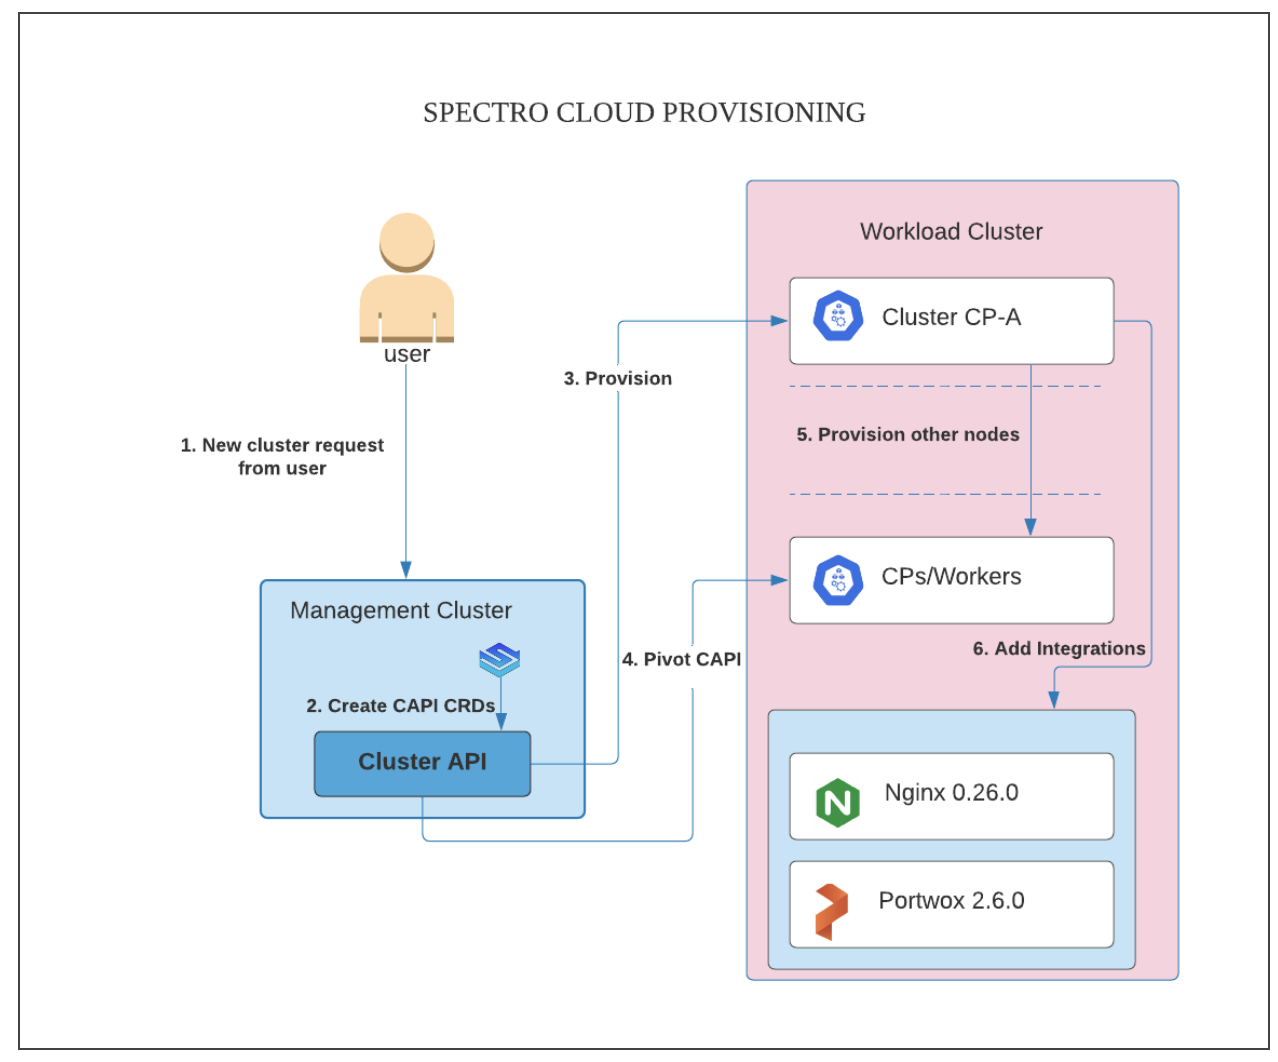
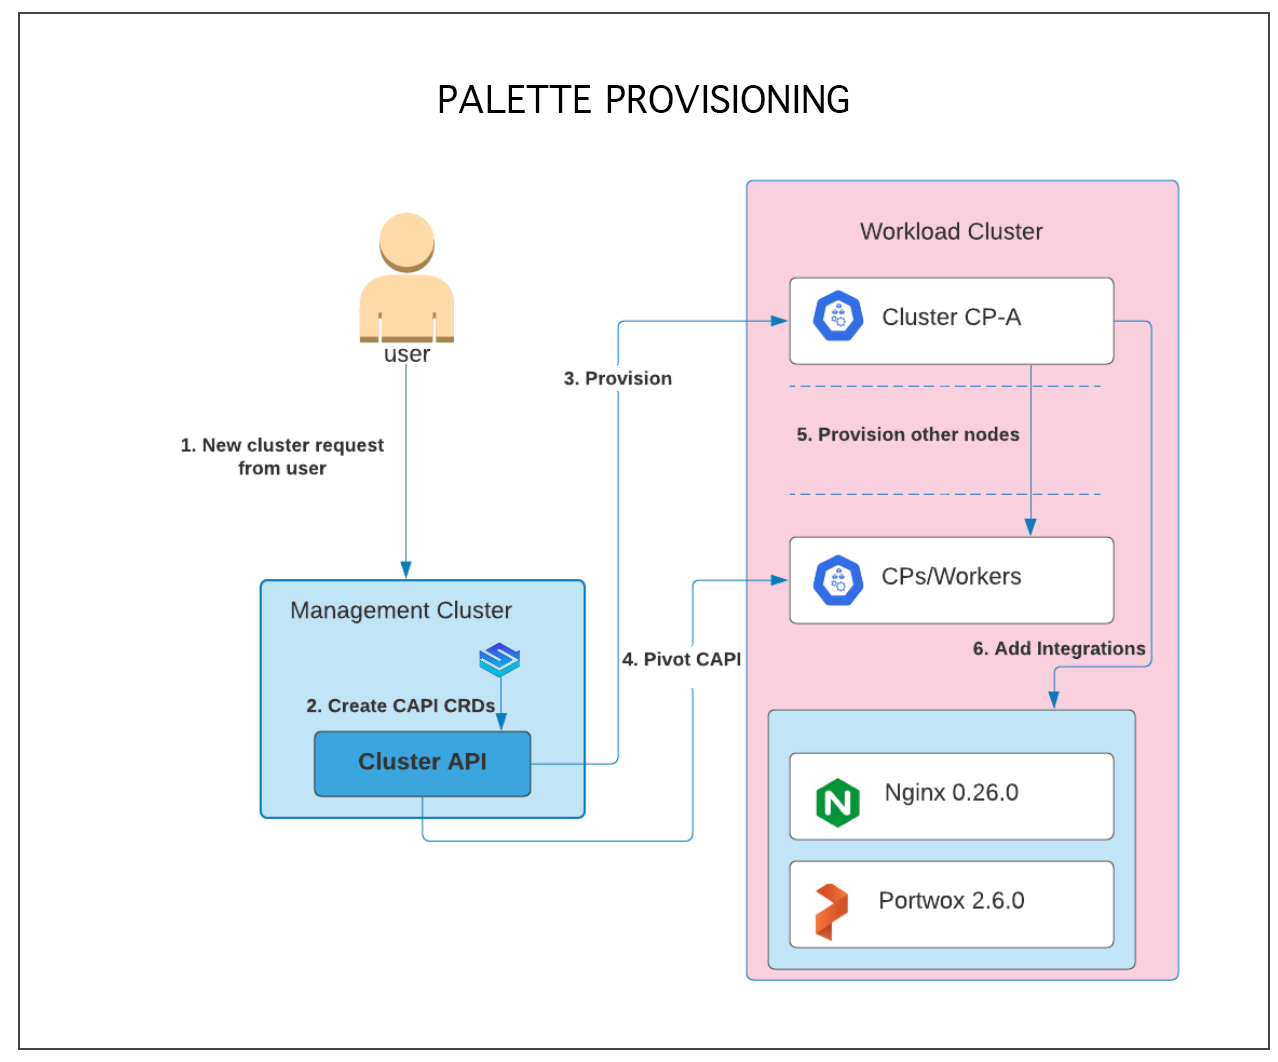
Add new pic; modified old pic; updated product name

diff --git a/content/docs/14-troubleshooting/01-orchestration-spectrocloud.md b/content/docs/14-troubleshooting/01-orchestration-spectrocloud.md
@@ -1,5 +1,5 @@
 ---
-title: "Orchestration - Spectro Cloud"
+title: "Orchestration - Palette"
 metaTitle: "Workload Cluster Provisioning"
 metaDescription: "The methods of workload cluster provisioning for K8S clusters"
 icon: ""
@@ -14,38 +14,66 @@ import PointsOfInterest from 'shared/components/common/PointOfInterest';
 import Tooltip from "shared/components/ui/Tooltip";
 
 
-# Orchestration - Spectro Cloud
+# Orchestration - Palette
 
- Spectro Cloud provisions standard, upstream Kubernetes clusters using [Cluster API](https://cluster-api.sigs.k8s.io/). Cluster API is a Kubernetes sub-project focused on providing declarative APIs and tooling to simplify provisioning, upgrading, and operating multiple Kubernetes clusters. Cluster API demonstratively manages the lifecycle of a cluster (creation, scaling, upgradation, and deletion) and helps in automating the process of cluster lifecycle management for platform operations. Cluster API also helps in consistent and repeated cluster deployment across multiple infrastructure environments.
+Spectro Cloud Palette provisions standard, upstream Kubernetes clusters using [Cluster API](https://cluster-api.sigs.k8s.io/).
+ 
+Cluster API is a Kubernetes sub-project focused on providing declarative APIs and tooling to simplify provisioning, upgrading, and operating multiple Kubernetes clusters. 
+ 
+Cluster API demonstratively manages the lifecycle of a cluster (creation, scaling, enhancement, and deletion) and helps in automating the process of cluster lifecycle management for platform operations. Cluster API also helps in consistent and repeated cluster deployment across multiple infrastructure environments.
 
-
+<br />
 
 ## Workload Cluster Provisioning
 
 ![workload_cluster_provisioning.png](workload_cluster_provisioning.png)
 
+
+<br />
+
+<br />
+
 1. New K8S cluster request from user submitted to the cluster management system.
 
-2. Spectro Cloud creates the Cluster-API (CAPI) custom-resource specifications for the target cloud, e.g in VMware this would translate to: Cluster, vSphereCluster, KubeadmControlPlane (with replica 1), and VSphereMachineTemplate. These resources are created in the management cluster.
 
-3. Cluster API and corresponding cluster-api provider, e.g: cluster-api-provider-vsphere, provisions the first control-plane node CP-A on the target cloud. 
-
-4. When CP-A is operational, the management platform will install a Spectro Cloud agent into the workload cluster and then perform a pivot of the Cluster API resources. 
-
-5. CP-A agent will retrieve the latest specifications for the cluster, e.g: 3 control-plane, and 3 workers. CP-A will generate and update the remaining CAPI resources, e.g: update replicas to 3 for KubeadmControlPlane, create the worker's MachineDeployment and VSphereMachineTemplate, etc.  Cluster API running in CP-A will provision the remaining control plane and worker nodes.
-
-6. The Spectro Cloud Agent will install all the additional add-ons as specified by the cluster’s cluster profile (e.g: logging, monitoring, security).
+2. Palette creates the Cluster-API (CAPI) custom-resource specifications for the target cloud, e.g in VMware this would translate to: Cluster, vSphereCluster, KubeadmControlPlane (with replica 1), and VSphereMachineTemplate. These resources are created in the management cluster.
 
 
- 
-## Why Spectro Cloud Pivots
+3. Cluster API and corresponding cluster-api provider, e.g: cluster-api-provider-vsphere, provisions the first control-plane node CP-A on the target cloud.
 
-As part of the workload K8s cluster provisioning, only the first control-plane node is launched by Cluster API, running in the Spectro Cloud management cluster. Once the control-plane node is operational, Cluster API resources are _pivoted_ from the management platform into the target workload cluster.
+
+4. When CP-A is operational, the management platform will install a Palette agent into the workload cluster and then perform a pivot of the Cluster API resources.
+
+
+5. CP-A agent will retrieve the latest specifications for the cluster, e.g: 3 control-plane, and 3 workers. CP-A will generate and update the remaining CAPI resources, e.g: update replicas to 3 for KubeadmControlPlane, create the worker's MachineDeployment or VSphereMachineTemplate. Cluster API running in CP-A will provision the remaining control plane and worker nodes.
+
+
+6. The Palette agent will install all the additional add-ons as specified by the cluster's cluster profile (e.g: logging, monitoring, security).
+
+
+## Why Palette Pivots
+
+<br />
+
+Palette's decentralized model is based on a "decentralized management - local policy enforcement" scalable architecture.
+
+![distributed_orchestration.png](distributed_orchestration.png)
+
+
+<br />
+
+As part of the workload K8s cluster provisioning, only the first control-plane node is launched by Cluster API, running in the Palette management cluster. Once the control-plane node is operational, Cluster API resources are _pivoted_ from the management platform into the target workload cluster.
 
 The target workload cluster is then responsible for provisioning and maintaining the remaining control-plane and worker nodes. All Day-2 operations which result in node changes, including OS/K8s upgrades, scaling, and K8s certificate rotation, are triggered by changes to the Cluster API resources in the target workload cluster.
 
-Spectro Cloud pivots these clusters for several reasons, related to scalability and availability:
+Palette pivots these clusters for several reasons, related to scalability and availability:
 
-* Scalability: The management platform scales to meet the demand of all your workload clusters as the number of tenant clusters and nodes increases in size. 
-* Resiliency: Even if the management platform were to experience an outage, the workload clusters would retain their resiliency capabilities, auto-recovery, launching of new nodes on failures, auto-scaling, and other policies still work!
-* Intermittent network resiliency: The design supports use cases where the workload clusters can still operate in intermittent and disconnected network availability situations.
+* **Scalability** - The management platform scales to meet the demand of all your workload clusters as the number of tenant clusters and nodes increases in size. 
+
+* **Resiliency** - Even if the management platform were to experience an outage, the workload clusters would retain their resiliency capabilities, auto-recovery, launching of new nodes on failures, auto-scaling, and other policies still work!
+
+* **Intermittent network resiliency** - The design supports use cases where the workload clusters can still operate in intermittent and disconnected network availability situations.
+
+
+<br />
+<br />
